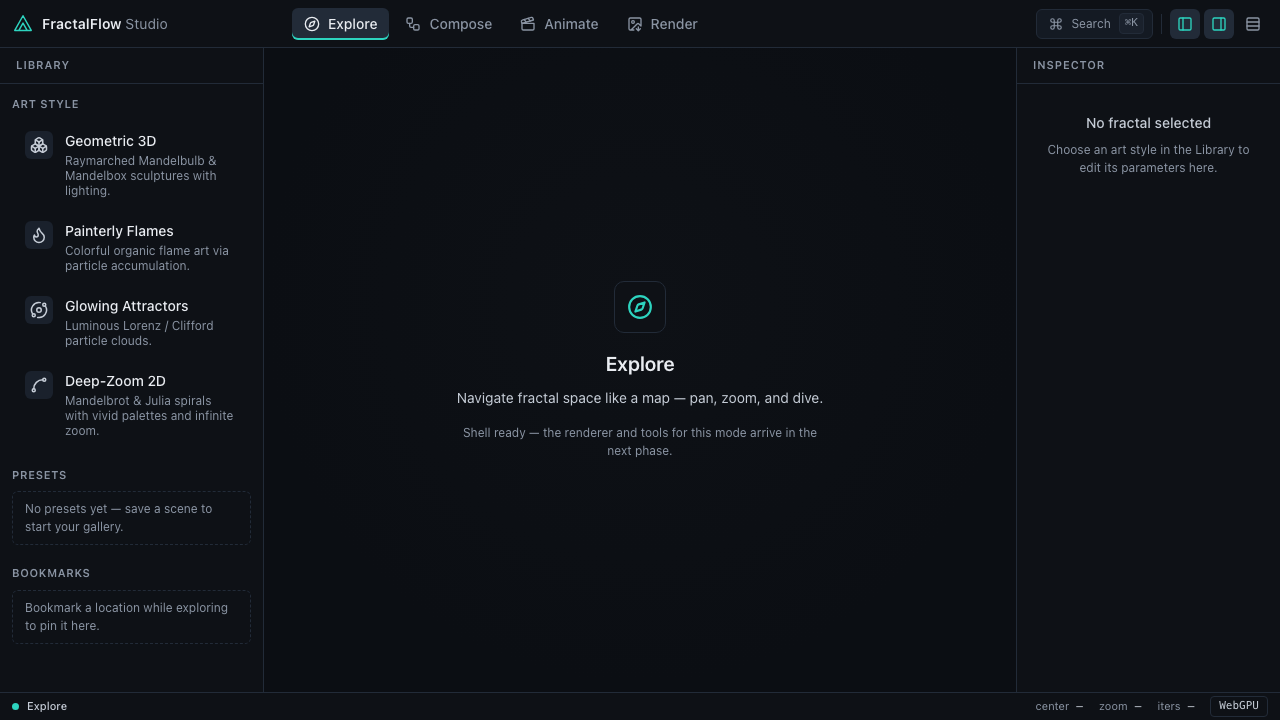
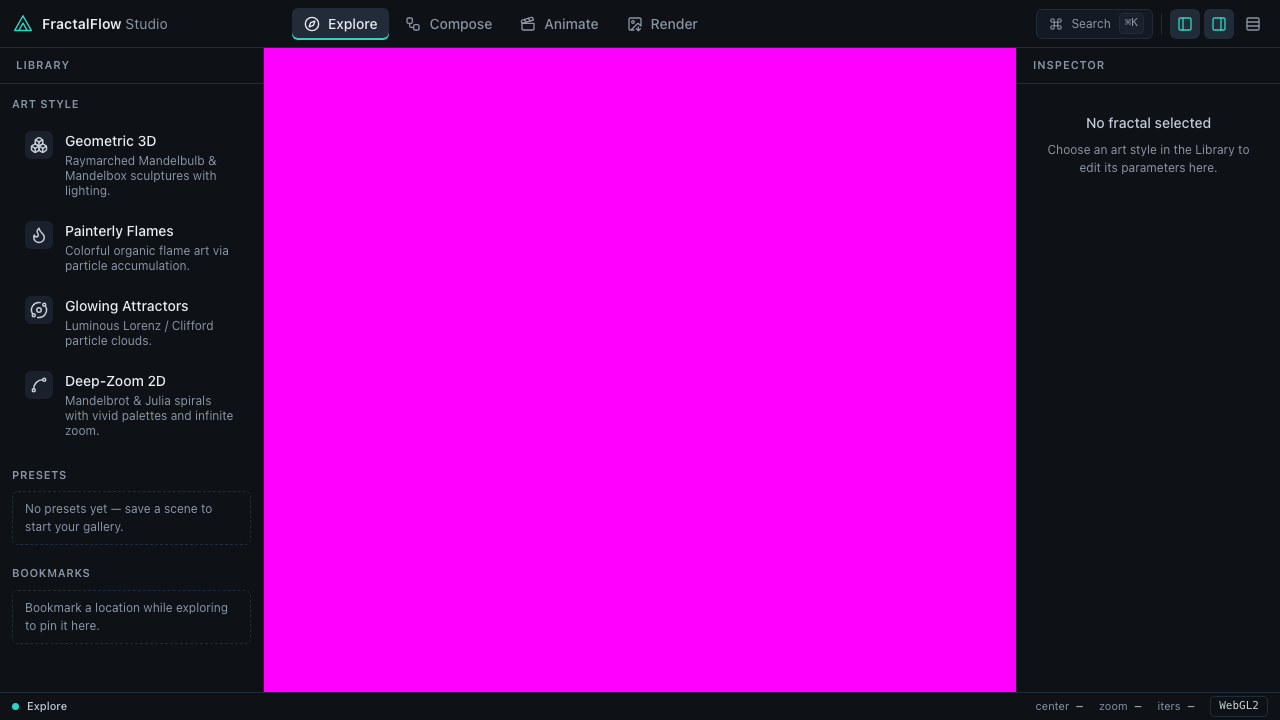
engine: GpuCanvas component wired into Explore + live backend badge
Add an engine store, a GpuCanvas Svelte component that creates the
engine on mount (start/destroy lifecycle, error state if no backend),
and render it as the Explore viewport. The status bar now reports the
backend the engine actually initialised with (capability-predicted
until then).

Tests: browser component test for GpuCanvas; e2e updated to assert the
live canvas + backend badge, with the animated canvas masked in the
visual snapshot. 32 unit + 6 e2e passing.

diff --git a/src/lib/components/engine/GpuCanvas.svelte b/src/lib/components/engine/GpuCanvas.svelte
@@ -1,0 +1,93 @@
+<script lang="ts">
+	import { onMount } from 'svelte';
+	import { createEngine, type Engine } from '$lib/engine/engine';
+	import type { BackendType } from '$lib/engine/types';
+
+	interface Props {
+		prefer?: BackendType;
+		/** Reports the backend the engine actually initialised with. */
+		onbackend?: (type: BackendType) => void;
+	}
+
+	let { prefer, onbackend }: Props = $props();
+
+	let canvas = $state<HTMLCanvasElement | null>(null);
+	let failed = $state(false);
+
+	onMount(() => {
+		if (!canvas) return;
+		let engine: Engine | null = null;
+		let disposed = false;
+
+		createEngine(canvas, { prefer, onBackend: onbackend })
+			.then((created) => {
+				if (!created) {
+					failed = true;
+					return;
+				}
+				if (disposed) {
+					created.destroy();
+					return;
+				}
+				engine = created;
+				engine.start();
+			})
+			.catch(() => {
+				failed = true;
+			});
+
+		return () => {
+			disposed = true;
+			engine?.destroy();
+		};
+	});
+</script>
+
+<div class="gpu">
+	<canvas bind:this={canvas} aria-label="Fractal viewport" data-testid="fractal-viewport"></canvas>
+	{#if failed}
+		<div class="error" role="alert">
+			<p class="error-title">GPU unavailable</p>
+			<p class="error-body">
+				This device supports neither WebGPU nor WebGL2. Try a recent desktop browser.
+			</p>
+		</div>
+	{/if}
+</div>
+
+<style>
+	.gpu {
+		position: relative;
+		flex: 1;
+		min-width: 0;
+		display: flex;
+	}
+	canvas {
+		display: block;
+		width: 100%;
+		height: 100%;
+	}
+	.error {
+		position: absolute;
+		inset: 0;
+		display: flex;
+		flex-direction: column;
+		align-items: center;
+		justify-content: center;
+		gap: var(--ff-space-2);
+		text-align: center;
+		padding: var(--ff-space-6);
+		background: var(--ff-bg);
+	}
+	.error-title {
+		font-size: var(--ff-text-lg);
+		font-weight: var(--ff-weight-semibold);
+		color: var(--ff-text);
+	}
+	.error-body {
+		font-size: var(--ff-text-sm);
+		color: var(--ff-text-muted);
+		max-width: 320px;
+		line-height: var(--ff-leading-normal);
+	}
+</style>

diff --git a/src/lib/stores/engine.svelte.ts b/src/lib/stores/engine.svelte.ts
@@ -1,0 +1,33 @@
+/**
+ * Small reactive store holding the rendering backend actually chosen by the
+ * engine at runtime, so the shell (e.g. the status bar) can report it.
+ * Provided via context by the root layout.
+ */
+import { getContext, setContext } from 'svelte';
+import type { BackendType } from '$lib/engine/types';
+
+const KEY = Symbol('ff-engine-store');
+
+export function createEngineStore() {
+	let backend = $state<BackendType | null>(null);
+	return {
+		get backend() {
+			return backend;
+		},
+		setBackend: (type: BackendType) => (backend = type)
+	};
+}
+
+export type EngineStore = ReturnType<typeof createEngineStore>;
+
+export function provideEngineStore(): EngineStore {
+	const store = createEngineStore();
+	setContext(KEY, store);
+	return store;
+}
+
+export function getEngineStore(): EngineStore {
+	const store = getContext<EngineStore>(KEY);
+	if (!store) throw new Error('Engine store not found in context — call provideEngineStore().');
+	return store;
+}

diff --git a/src/lib/components/shell/StatusBar.svelte b/src/lib/components/shell/StatusBar.svelte
@@ -2,13 +2,25 @@
 	import { page } from '$app/state';
 	import { browser } from '$app/environment';
 	import { MODES, modeFromPath } from '$lib/stores/ui-logic';
+	import { getEngineStore } from '$lib/stores/engine.svelte';
+	import { chooseBackendType, detectSupport } from '$lib/engine/capabilities';
 
 	const activeMode = $derived(MODES.find((m) => m.id === modeFromPath(page.url.pathname)));
+	const engine = getEngineStore();
 
-	// The rendering backend the engine will use once it lands; resolved client-side.
-	const backend = $derived(
-		browser ? ('gpu' in navigator && navigator.gpu ? 'WebGPU' : 'WebGL2') : 'Detecting…'
-	);
+	function label(type: 'webgpu' | 'webgl2' | null): string {
+		if (type === 'webgpu') return 'WebGPU';
+		if (type === 'webgl2') return 'WebGL2';
+		return 'None';
+	}
+
+	// Show the backend the engine actually initialised with; before that, the
+	// one capability detection predicts for this device.
+	const backend = $derived.by(() => {
+		if (engine.backend) return label(engine.backend);
+		if (!browser) return 'Detecting…';
+		return label(chooseBackendType(detectSupport()));
+	});
 </script>
 
 <footer class="statusbar">

diff --git a/e2e/shell.e2e.ts b/e2e/shell.e2e.ts
@@ -4,10 +4,17 @@ test('root redirects to Explore and renders the shell', async ({ page }) => {
 	await page.goto('/');
 	await expect(page).toHaveURL(/\/explore$/);
 	await expect(page.getByText('FractalFlow')).toBeVisible();
-	await expect(page.getByRole('heading', { name: 'Explore' })).toBeVisible();
+	// The live GPU viewport mounts in Explore.
+	await expect(page.locator('canvas')).toBeVisible();
 	// Both panels present by default.
 	await expect(page.getByRole('complementary', { name: 'Library' })).toBeVisible();
 	await expect(page.getByRole('complementary', { name: 'Inspector' })).toBeVisible();
+});
+
+test('the engine initialises a backend (badge resolves)', async ({ page }) => {
+	await page.goto('/explore');
+	// Once the engine starts, the status bar shows WebGPU or WebGL2 (not "Detecting…").
+	await expect(page.getByText(/^(WebGPU|WebGL2)$/)).toBeVisible();
 });
 
 test('mode tabs navigate between modes', async ({ page }) => {
@@ -20,7 +27,7 @@ test('mode tabs navigate between modes', async ({ page }) => {
 test('command palette opens with the keyboard and navigates', async ({ page }) => {
 	await page.goto('/explore');
 	// Ensure the app has hydrated before exercising the keyboard shortcut.
-	await expect(page.getByRole('heading', { name: 'Explore' })).toBeVisible();
+	await expect(page.locator('canvas')).toBeVisible();
 	await page.keyboard.press('Control+k');
 	const dialog = page.getByRole('dialog', { name: 'Command palette' });
 	await expect(dialog).toBeVisible();
@@ -38,6 +45,10 @@ test('toggling the library panel hides it', async ({ page }) => {
 
 test('visual: Explore shell', async ({ page }) => {
 	await page.goto('/explore');
-	await expect(page.getByRole('heading', { name: 'Explore' })).toBeVisible();
-	await expect(page).toHaveScreenshot('explore-shell.png', { fullPage: true });
+	await expect(page.locator('canvas')).toBeVisible();
+	// Mask the animated GPU canvas so the chrome comparison stays deterministic.
+	await expect(page).toHaveScreenshot('explore-shell.png', {
+		fullPage: true,
+		mask: [page.locator('canvas')]
+	});
 });

diff --git a/src/lib/components/engine/GpuCanvas.svelte.spec.ts b/src/lib/components/engine/GpuCanvas.svelte.spec.ts
@@ -1,0 +1,9 @@
+import { page } from 'vitest/browser';
+import { render } from 'vitest-browser-svelte';
+import { expect, test } from 'vitest';
+import GpuCanvas from './GpuCanvas.svelte';
+
+test('mounts a labelled canvas for the fractal viewport', async () => {
+	render(GpuCanvas);
+	await expect.element(page.getByTestId('fractal-viewport')).toBeInTheDocument();
+});

diff --git a/src/routes/explore/+page.svelte b/src/routes/explore/+page.svelte
@@ -1,5 +1,8 @@
 <script lang="ts">
-	import ModeView from '$lib/components/shell/ModeView.svelte';
+	import GpuCanvas from '$lib/components/engine/GpuCanvas.svelte';
+	import { getEngineStore } from '$lib/stores/engine.svelte';
+
+	const engine = getEngineStore();
 </script>
 
-<ModeView mode="explore" />
+<GpuCanvas onbackend={(type) => engine.setBackend(type)} />

diff --git a/src/routes/+layout.svelte b/src/routes/+layout.svelte
@@ -2,6 +2,7 @@
 	import '../app.css';
 	import favicon from '$lib/assets/favicon.svg';
 	import { provideUiStore } from '$lib/stores/ui.svelte';
+	import { provideEngineStore } from '$lib/stores/engine.svelte';
 	import TopBar from '$lib/components/shell/TopBar.svelte';
 	import LibraryPanel from '$lib/components/shell/LibraryPanel.svelte';
 	import InspectorPanel from '$lib/components/shell/InspectorPanel.svelte';
@@ -10,6 +11,7 @@
 
 	let { children } = $props();
 	const ui = provideUiStore();
+	provideEngineStore();
 
 	// Reflect density on the root element so tokens can respond.
 	$effect(() => {